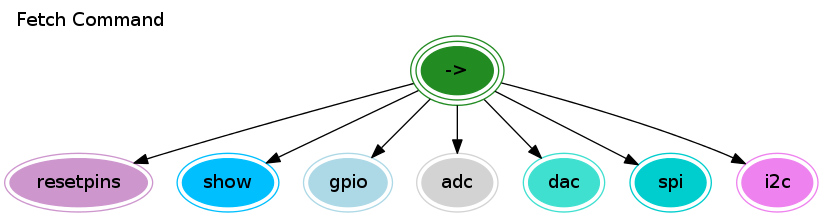
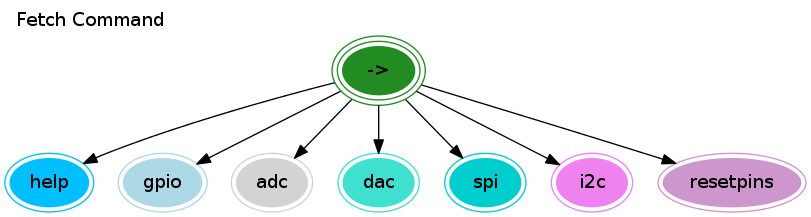
Fetch command grammar update and docs

diff --git a/src/fetch/fetch.c b/src/fetch/fetch.c
@@ -38,8 +38,10 @@ P - Production Rules:
                      | <command> ":" <gpio_subcommandA> ":" <port_subcommand> ":" <pin_subcommand> <EOL>
                      | <command> ":" <gpio_subcommandA> ":" <port_subcommand> ":" <pin_subcommand> ":" <gpio_direction> ":" <gpio_sense> <EOL>
                      | <command> ":" <adc_subcommandA> <EOL>
-                     | <command> ":" <adc_subcommandA>  ":" <adc_configure>   ":" <EOL>
-<command>          ::= "?"      | "help"     | "gpio"  | "adc"   | "spi"   | "adc" | "resetpins"
+                     | <command> ":" <adc_subcommandA>  ":" <adc_configure> <EOL>
+                     | <command> ":" <adc_subcommandA>  ":" <adc_configure>   ":" <adc_profile> <EOL>
+                     | <command> ":" <adc_subcommandA>  ":" <adc_configure>(<dec>) <EOL>
+<command>          ::= "?"      | "help"     | "gpio"  | "adc"   | "dac"   | "spi" | "i2c" | "resetpins"
 <adc_subcommandA>  ::= "conf_adc1" | "start" | "stop"
 <adc_configure>    ::= "profile" | "oneshot" | "continuous" | "reset" | "vref_mv"
 <adc_profile>      ::= "default" | "PA"   | "PB"
@@ -53,10 +55,11 @@ P - Production Rules:
                    | "pin8"   | "pin9"     | "pin10" | "pin11" | "pin12" | "pin13" | "pin14" | "pin15"
 <subcommandD>      ::= TBD
 <datastr>          ::= "(" <byte> ")"
-<byte>             ::= <constant>
-                     | <constant> <whitespace> <byte>
-<constant>         ::= <digit><digit>
-<digit>            ::= "0" | "1" | "2" | "3" | "4" | "5" | "6" | "7" | "8" | "9" | "a" | "b" | "c" | "d" | "e"
+<byte>             ::= <hdigit><hdigit> <whitespace>
+<dec>              ::= <ddigit>
+					| <ddigit> <dec> 
+<hdigit>            ::= "0" | "1" | "2" | "3" | "4" | "5" | "6" | "7" | "8" | "9" | "a" | "b" | "c" | "d" | "e"
+<ddigit>            ::= "0" | "1" | "2" | "3" | "4" | "5" | "6" | "7" | "8" | "9" 
 <EOL>              ::= "\r\n" | "\n"
 <whitespace_char>  ::= " " | "\t"
 <whitespace>       ::= <whitespace_char> | <whitespace> <whitespace_char>
